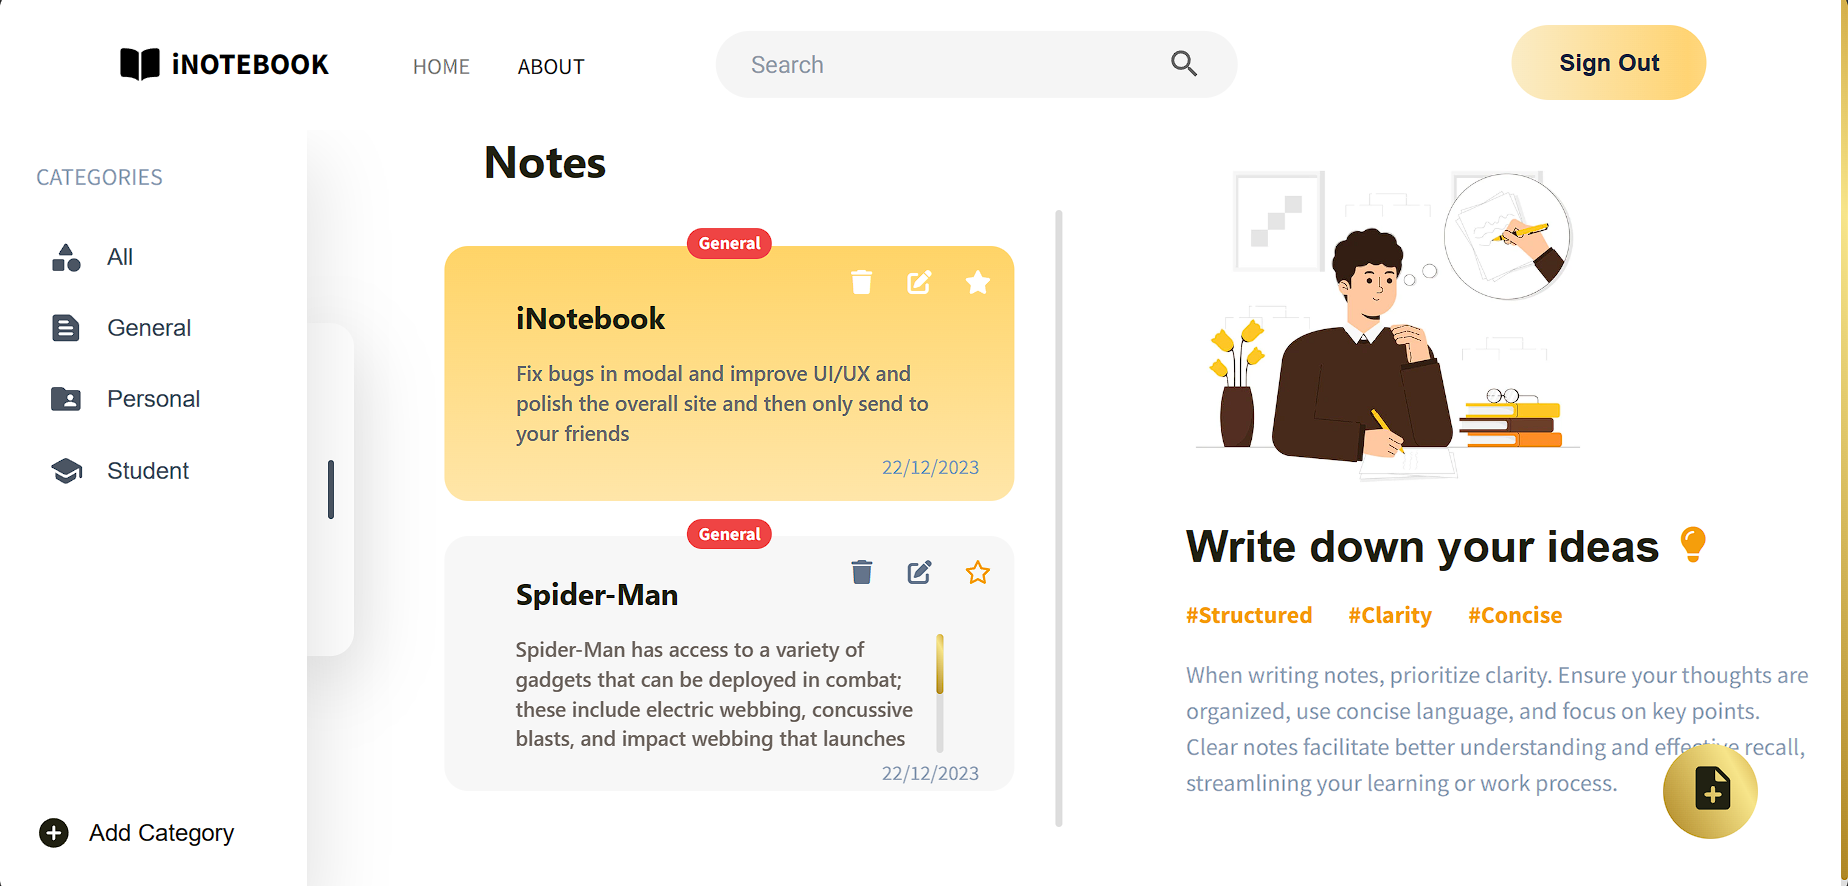
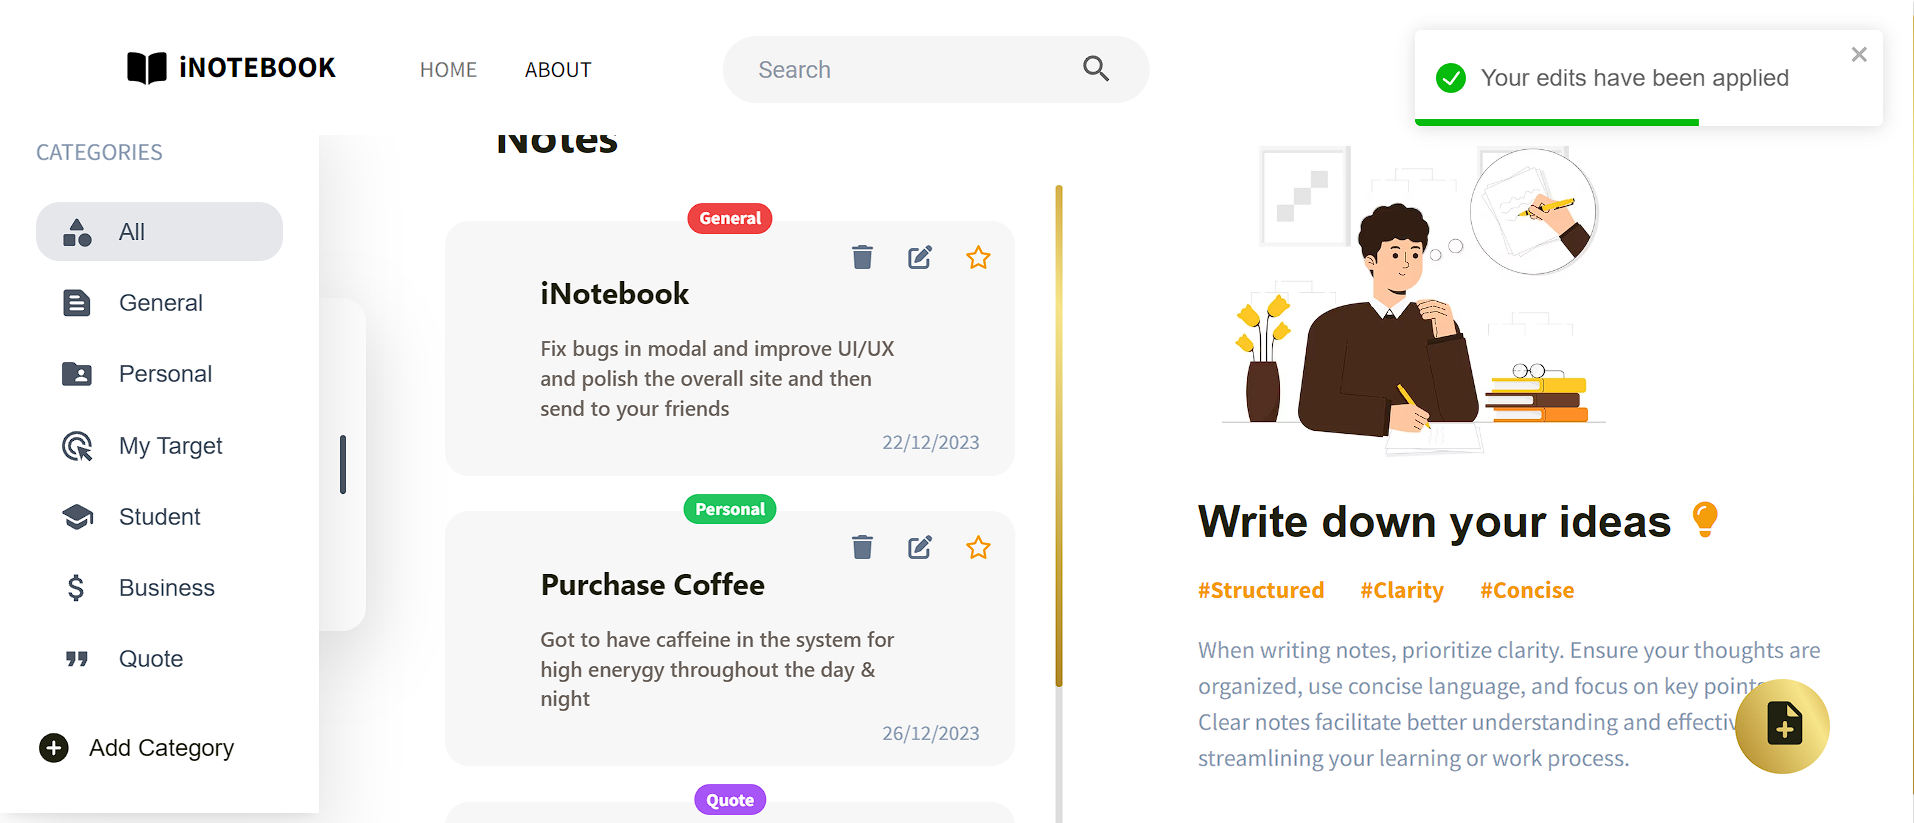
Added Toast Notification using Redux

diff --git a/src/components/Notes.js b/src/components/Notes.js
@@ -246,7 +246,7 @@ const Notes = (props) => {
             <h1 className=" mb-3 font-sans -translate-x-24 font-bold text-3xl">
               Notes
             </h1>
-            <div className={`flex flex-col md:max-h-[450px] max-h-[600px] ${mobileView? props.isSidebarOpen?"translate-x-12":"":""}`}>
+            <div className={`flex flex-col md:max-h-[415px] max-h-[600px] ${mobileView? props.isSidebarOpen?"translate-x-12":"":""}`}>
               <div
                 className={`${props.isSidebarOpen?"w-[8rem]":"w-[22rem]"} transition-all duration-500 ease-out md:w-[28rem] column -translate-x-9`}
                 style={{ overflowY: "scroll", overflowX: "clip" }}
